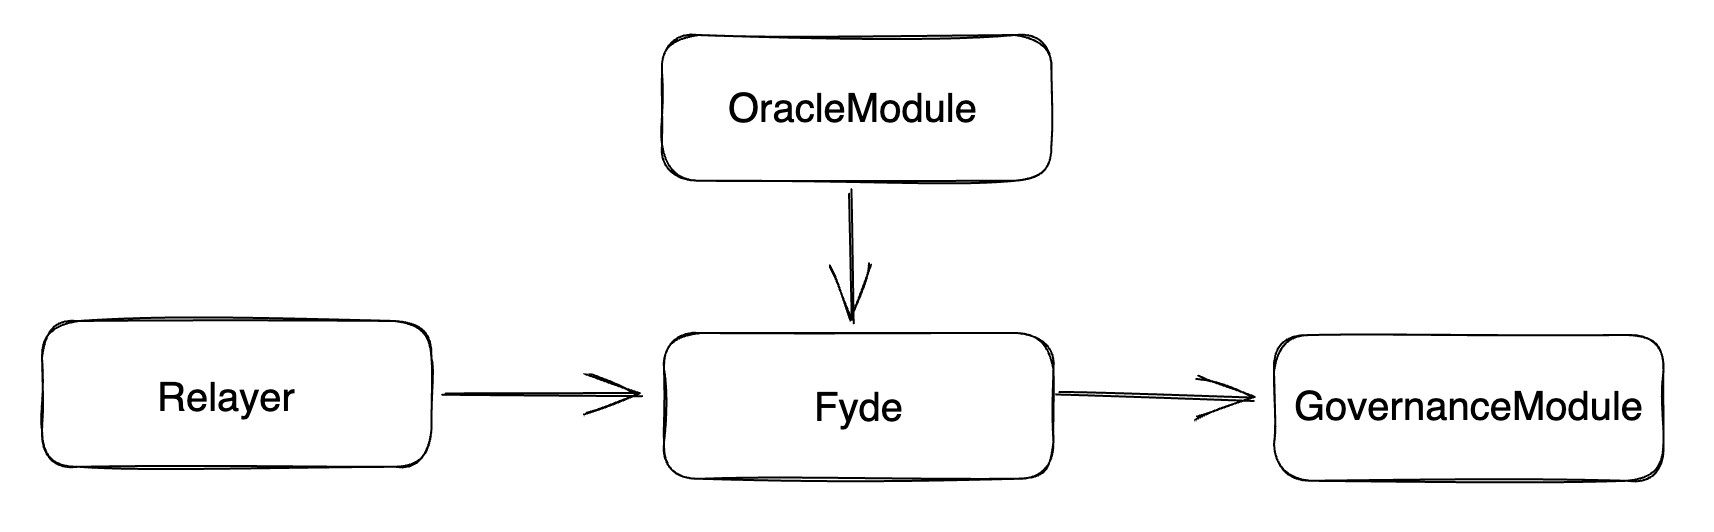
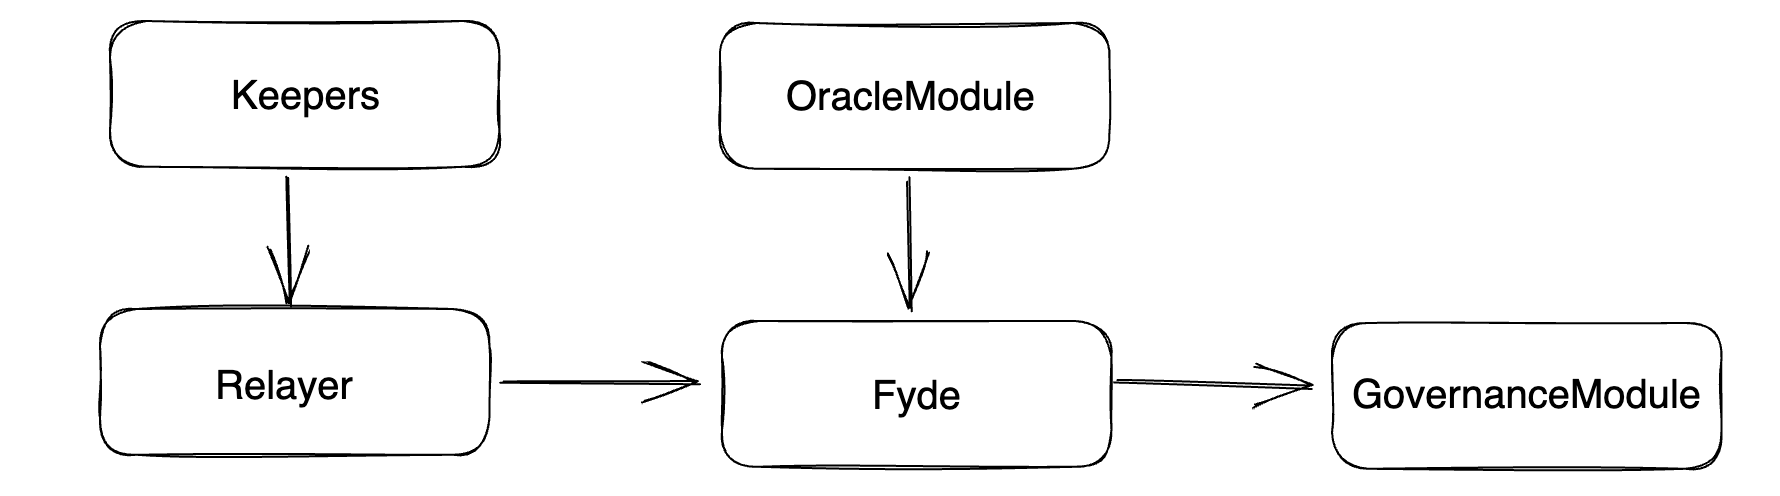
Add relayers info

diff --git a/_pages/relayer.md b/_pages/relayer.md
@@ -19,9 +19,16 @@ In designing our protocol, we chose to denominate assets and TVL in USD, with on
 
 ### Requesting
 
-Users are calling the requests function to express their action intent with somes parameters such as : assets, amounts, keep the governance rights, slippage parameters. Then the request is push into the relayer queue and wait to be processed by a keeper.
+Users are calling the requests function to express their action's intent with somes parameters such as : assets, amounts, keep the governance rights, slippage parameters. Then the request is push into the relayer queue and wait to be processed by a keeper. When user are making a request they will also forward some eth in order to pay the gas fees of the keeper.
 
 ### Processing
 
+The keepers (currently Gelato Bot and a own made keeper) monitor the relayer queue. When the queue fills up, the keeper is triggered and processes the pending requests. The functions's input of the process functions is the protocolAUM, which is calculated off-chain.
 
-### AUM monitoring
+
+### AUM monitoring and protection from keeper manipulation
+
+
+Since the keeper provides a crucial input value for the protocol's operation (protocolAUM), it opens up an important attack vector. For this reason, we store the protocolAUM value inside the fyde contract as well. When the keeper calls the process function, we ensure that the input value falls within a reasonable range to prevent manipulation attacks.
+
+The protocolAUM value is also monitored by the keepers. If the off-chain value deviates beyond a certain percentage, the keeper is triggered to update the internal value to maintain a consistent on-chain protocolAUM value. However, the keepers' actions are limited, and they can only update the protocolAUM within a coherent range to prevent atomic manipulation and draining the protocol.
